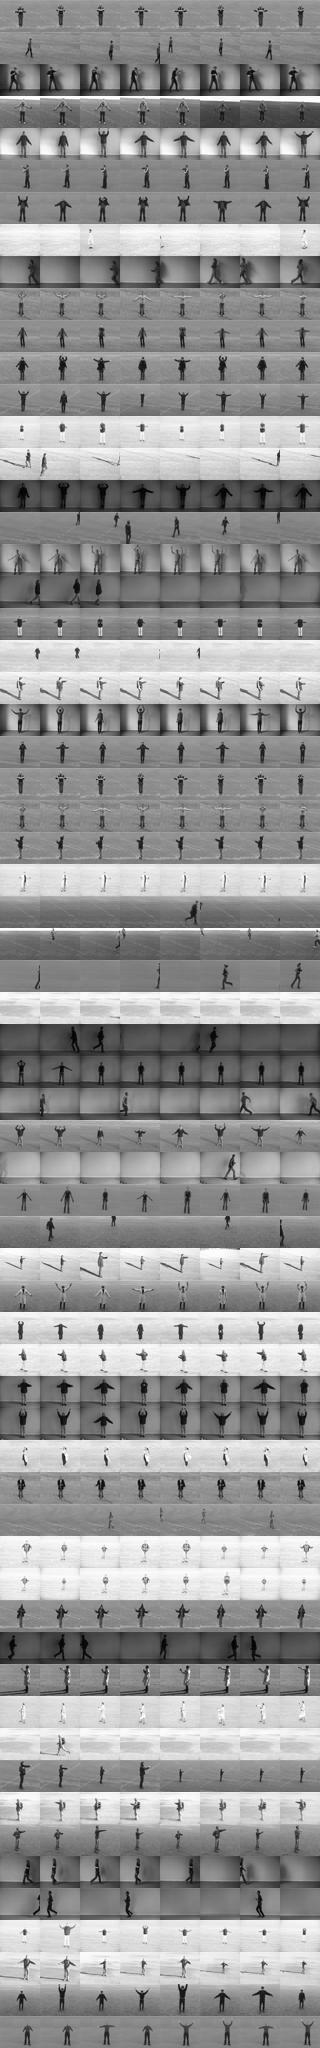
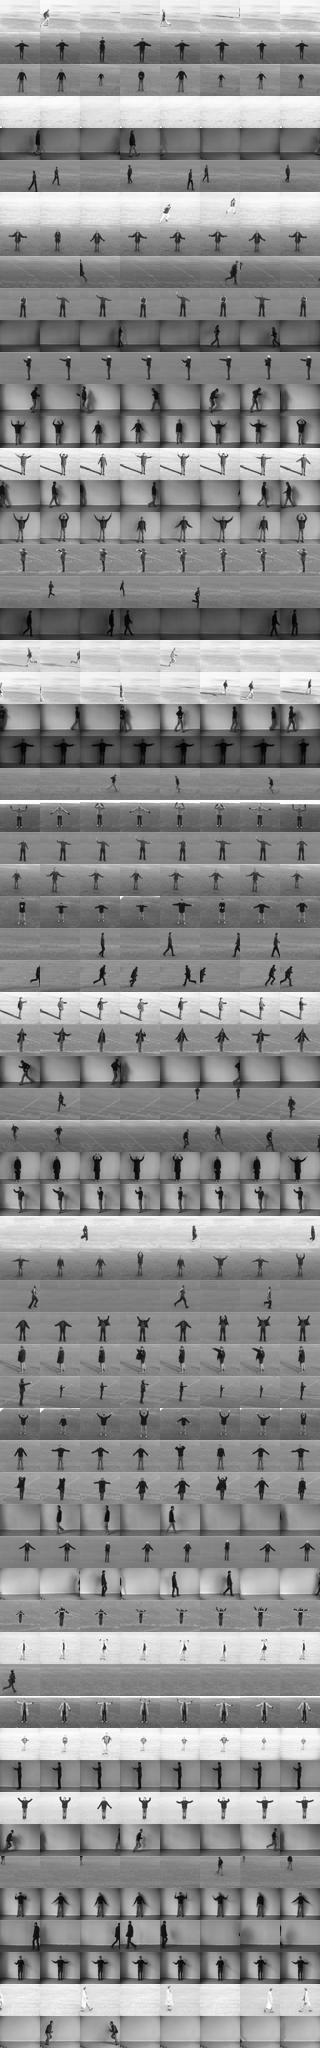
Adding relevant images

diff --git a/acrcn/eval_tot.py b/acrcn/eval_tot.py
@@ -515,7 +515,7 @@ tf.global_variables_initializer().run()
 print("Running code: ")
 epoch = int(sys.argv[-1])
 diter = 5
-num_examples = 640
+num_examples = 16000
 summary_writer = tf.summary.FileWriter("/users/gpu/prannay/vgan/embeddings")
 embedding_np, images, label_data = train_epoch(gan, summary_writer)
 create_sprite_image(images)
